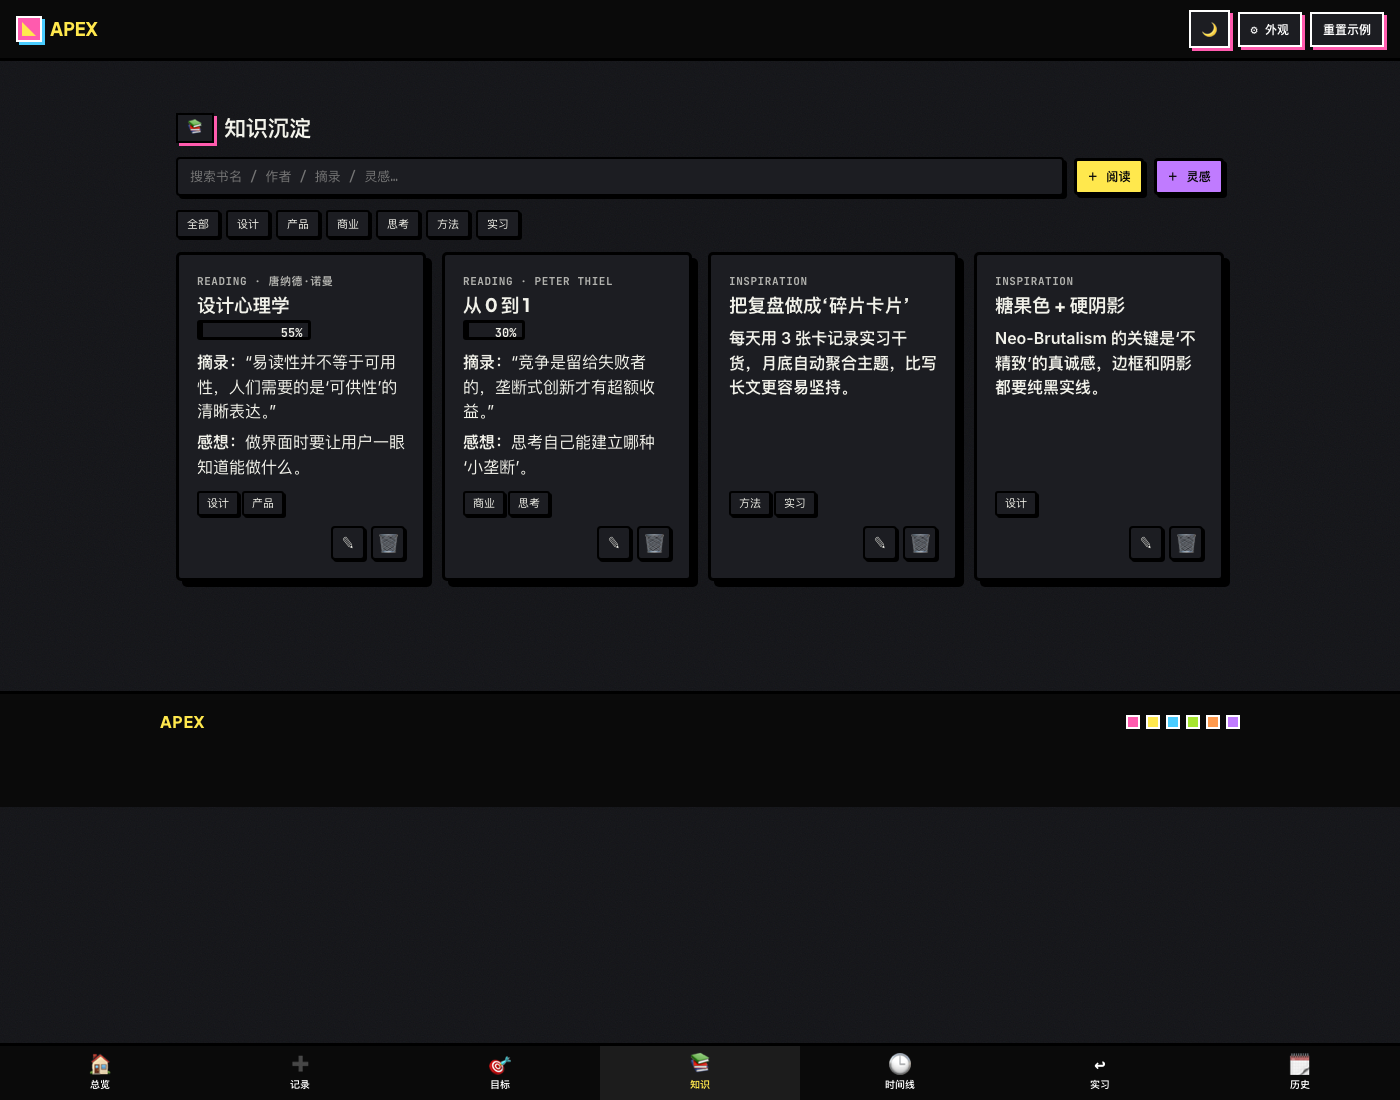
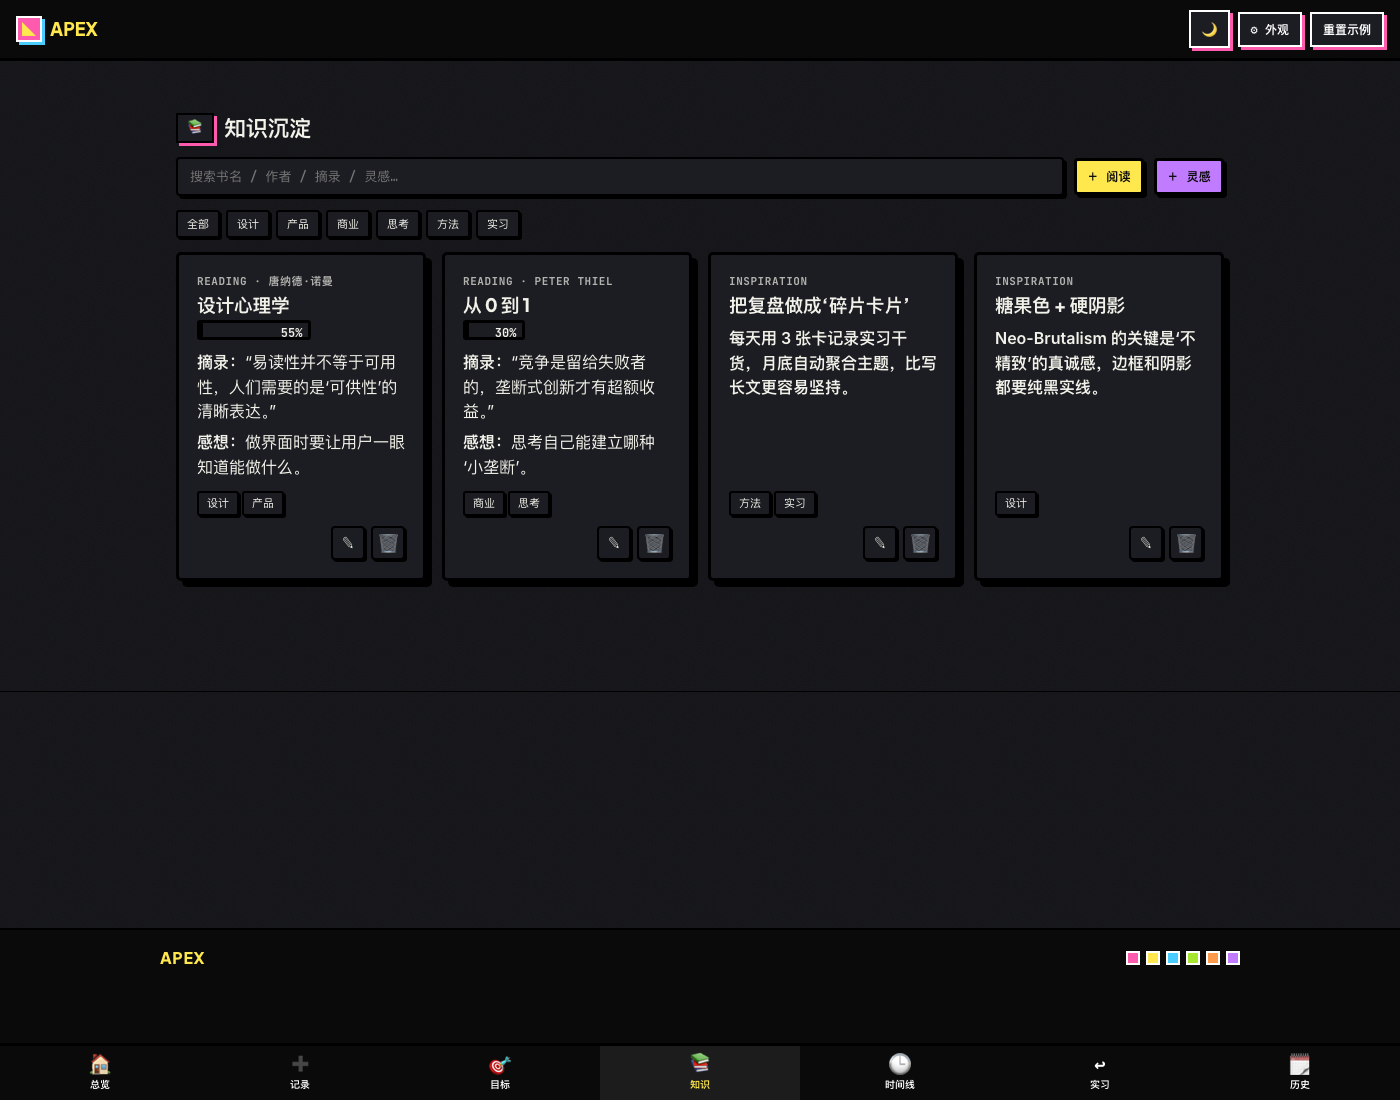
Fix full-height tab layout and refresh screenshots

diff --git a/index.html b/index.html
@@ -106,6 +106,10 @@
     background:var(--bg);
     line-height:1.55;
     -webkit-font-smoothing:antialiased;
+    min-height:100vh;
+    min-height:100dvh;
+    display:flex;
+    flex-direction:column;
   }
   /* faint global noise grain */
   body::before{
@@ -135,7 +139,7 @@
   .topnav .links button:active,.topnav .links a:active{transform:translate(2px,2px);box-shadow:1px 1px 0 var(--pink);}
 
   /* ---------- LAYOUT ---------- */
-  .wrap{max-width:1080px;margin:0 auto;padding:22px 16px 110px;position:relative;z-index:2;}
+  .wrap{width:100%;max-width:1080px;margin:0 auto;padding:22px 16px 110px;position:relative;z-index:2;flex:1 0 auto;}
   .section-title{display:flex;align-items:center;gap:10px;margin:30px 0 14px;}
   .section-title .num{font-family:var(--font-mono);font-weight:700;background:var(--ink);color:var(--yellow);padding:3px 9px;border:2px solid #000;box-shadow:3px 3px 0 var(--pink);font-size:13px;}
   .section-title h2{font-size:22px;margin:0;}
@@ -354,7 +358,7 @@
   .tabbar button.active .ico{transform:translateY(-1px);}
 
   /* ---------- FOOTER ---------- */
-  footer{background:#0A0A0A;color:#fff;border-top:var(--bd);padding:16px 16px 72px;position:relative;z-index:2;}
+  footer{background:#0A0A0A;color:#fff;border-top:var(--bd);padding:16px 16px 72px;position:relative;z-index:2;margin-top:auto;flex:0 0 auto;}
   footer .fin{display:flex;justify-content:space-between;gap:16px;flex-wrap:wrap;max-width:1080px;margin:0 auto;align-items:center;}
   footer .dots{display:flex;gap:6px;}
   footer .dot{width:14px;height:14px;border:2px solid #fff;}
